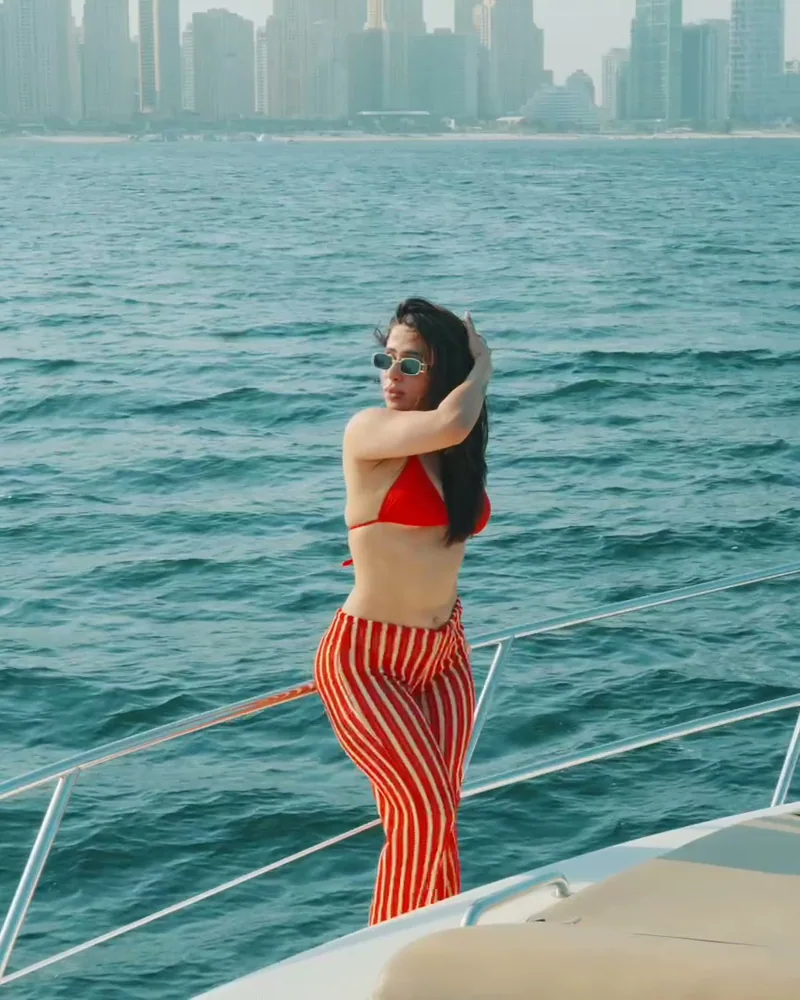
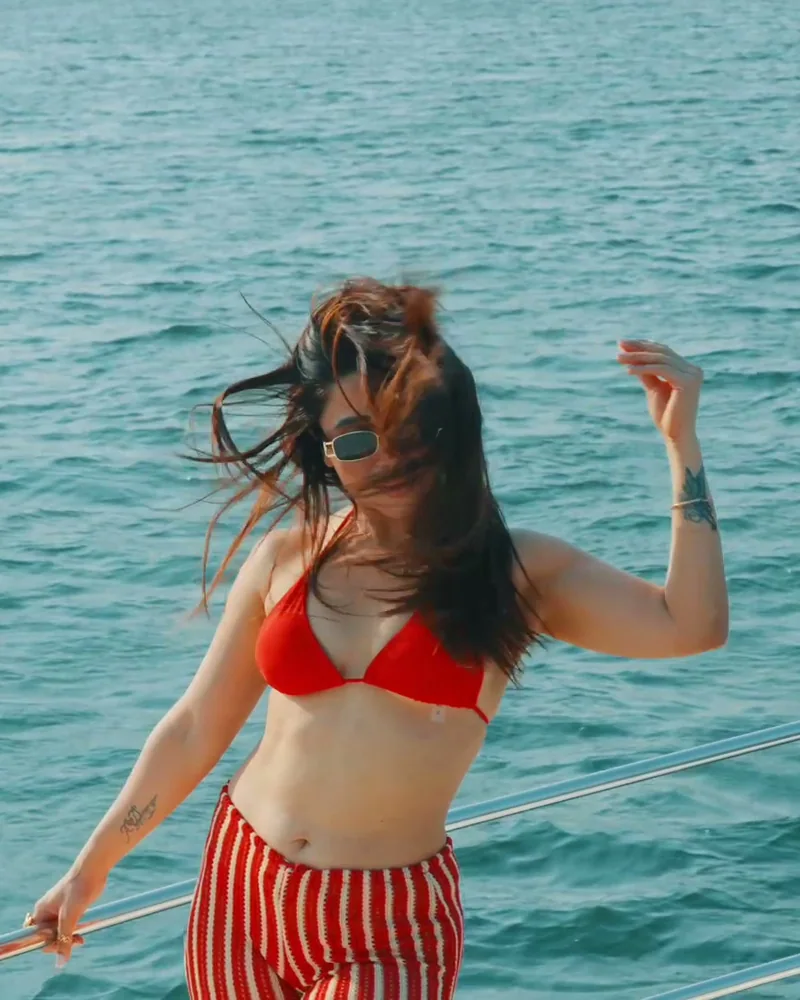
Anam reel card: 0:15 frame (hair flying, arm up at the rail)

diff --git a/src/data/site.ts b/src/data/site.ts
@@ -70,7 +70,7 @@ export const projects: Project[] = [
     category: "Lifestyle · Yacht Shoot",
     blurb: "Golden-hour yacht shoot against the Dubai skyline — wind, water and movement for a client's feed.",
     tone: ["#1b2a30", "#08090a"],
-    image: "/work/fitness/anam-client-cover.webp", // hand-picked frame (0:18.6), 4:5 crop
+    image: "/work/fitness/anam-client-cover.webp", // hand-picked frame (0:15), 4:5 crop
     video: "/work/fitness/anam-client-preview.mp4",
     work: "fitness/anam-client",
   },
